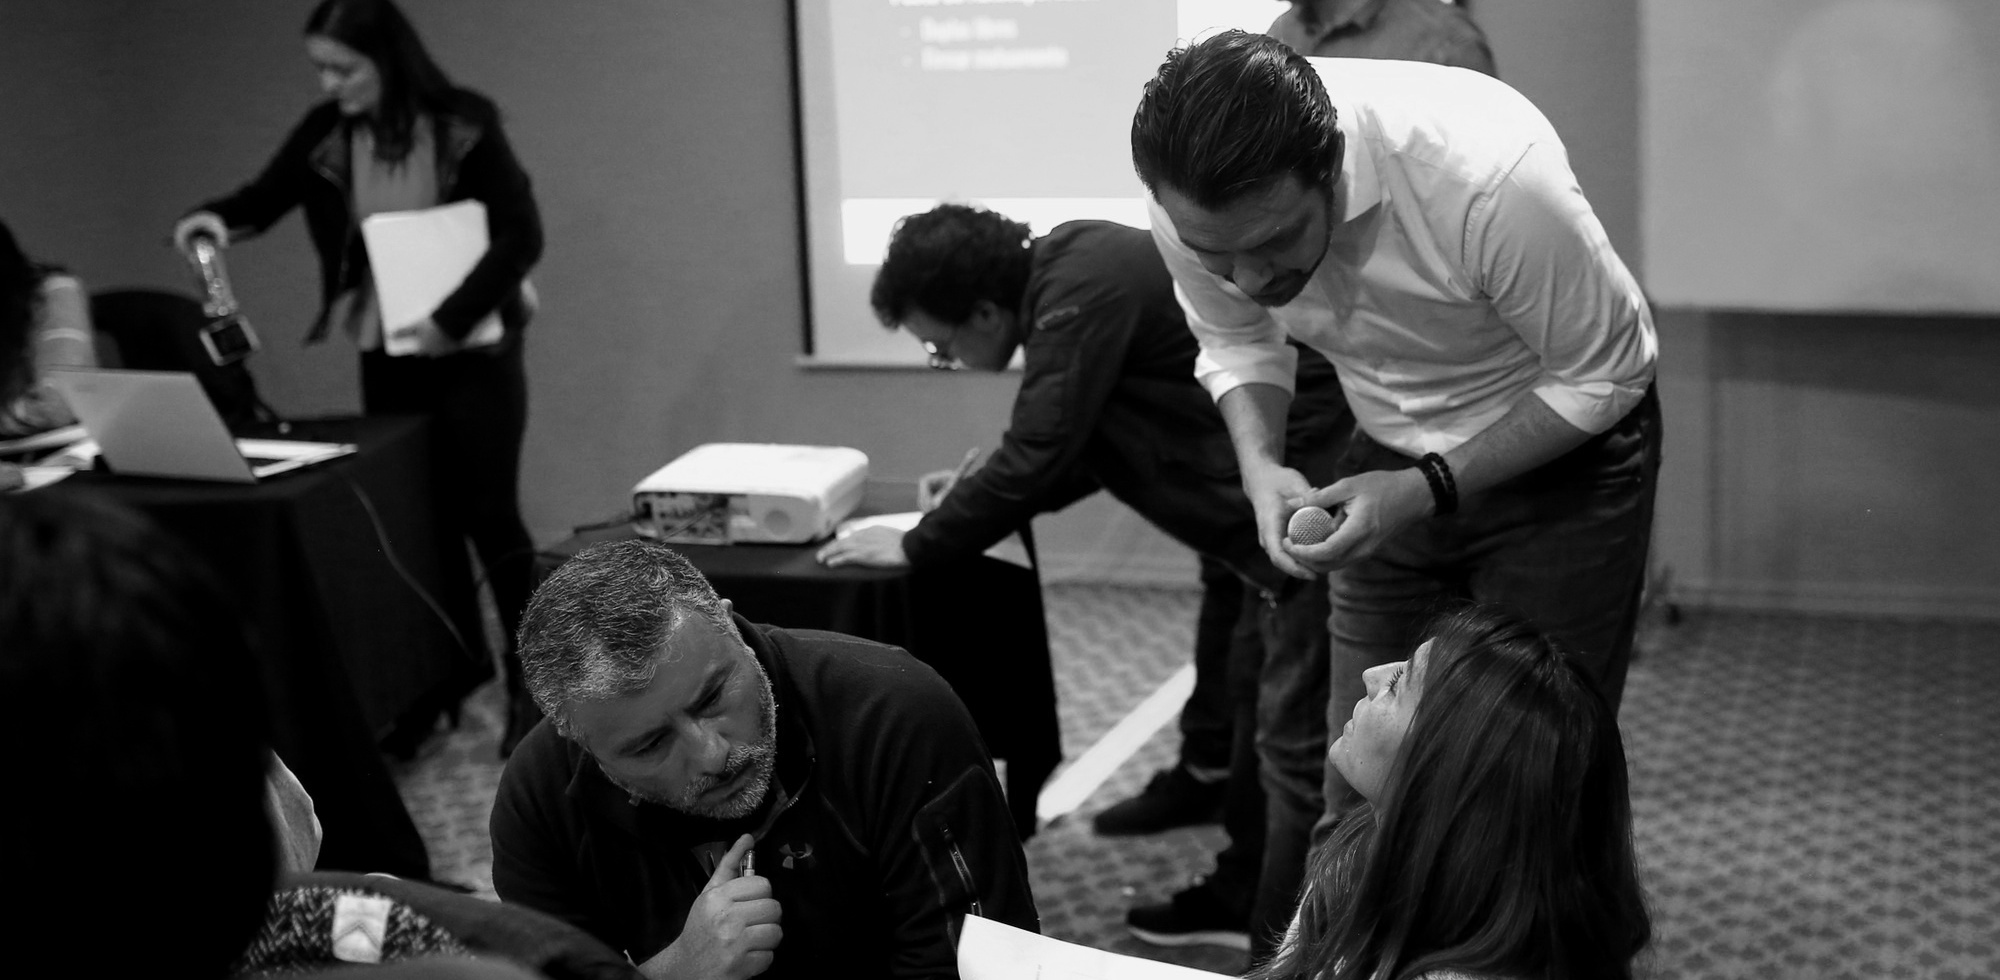
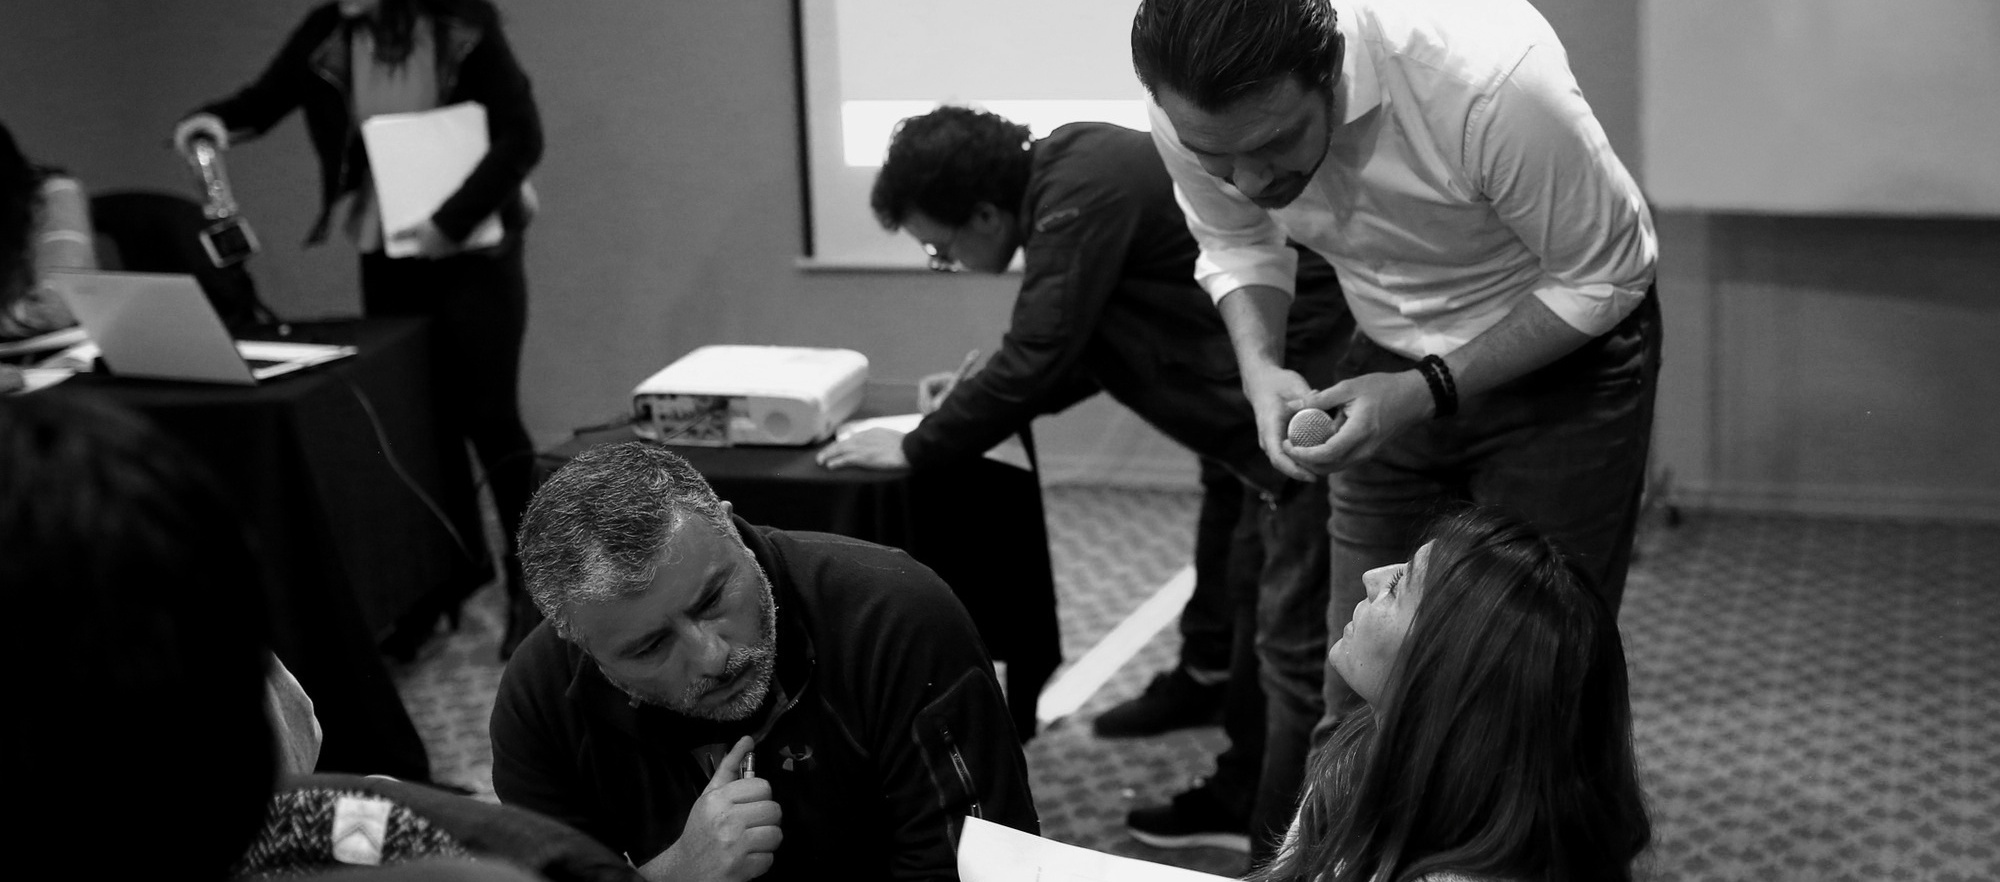
hero image adjustements

diff --git a/src/components/Hero.vue b/src/components/Hero.vue
@@ -48,7 +48,7 @@ export default {
         background: linear-gradient(0deg,rgba(0,0,0,0.25), rgba(0,0,0,0.75)), var(--background-hero);
         background-size: cover;
         background-position: right;
-        height: 50vh;
+        height: 60vh;
         background-attachment: fixed;
     }
 </style>
